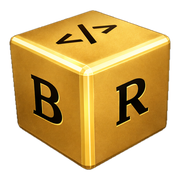
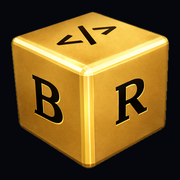
Add files via upload

diff --git a/index.html b/index.html
@@ -11,13 +11,13 @@
 
 <!-- PWA Manifest & Icons -->
 <link rel="manifest" href="/manifest.json">
-<link rel="icon" type="image/png" sizes="192x192" href="/icon-192.png?v=2">
-<link rel="icon" type="image/png" sizes="512x512" href="/icon-512.png?v=2">
-<meta name="theme-color" content="#C9A84C">
+<link rel="icon" type="image/png" sizes="192x192" href="/icon-192.png?v=3">
+<link rel="icon" type="image/png" sizes="512x512" href="/icon-512.png?v=3">
+<meta name="theme-color" content="#05070D">
 
 <!-- iOS Safari (Add to Home Screen) -->
-<link rel="apple-touch-icon" href="/apple-touch-icon.png?v=2">
-<link rel="apple-touch-icon" sizes="180x180" href="/apple-touch-icon.png?v=2">
+<link rel="apple-touch-icon" href="/apple-touch-icon.png?v=3">
+<link rel="apple-touch-icon" sizes="180x180" href="/apple-touch-icon.png?v=3">
 <meta name="apple-mobile-web-app-capable" content="yes">
 <meta name="apple-mobile-web-app-status-bar-style" content="black-translucent">
 <meta name="apple-mobile-web-app-title" content="Benyoriki">
@@ -67,7 +67,7 @@
 }
 </script>
 
-<link rel="icon" type="image/png" href="favicon.png?v=2">
+<link rel="icon" type="image/png" href="favicon.png?v=3">
 <meta name="theme-color" content="#0B0F1A" media="(prefers-color-scheme: dark)">
 <meta name="theme-color" content="#F7F5F0" media="(prefers-color-scheme: light)">
 
@@ -117,7 +117,7 @@
 
 <!-- ══ SPLASH SCREEN — ringan, ±5 detik, tanpa animasi berat ══ -->
 <div id="splash" role="status" aria-label="Memuat Benyoriki">
-  <div class="sp-mark"><img src="favicon.png?v=2" alt="" width="64" height="64"></div>
+  <div class="sp-mark"><img src="favicon.png?v=3" alt="" width="64" height="64"></div>
   <div class="sp-word">@benyo<span>riki</span></div>
   <div class="sp-bar"><div class="sp-fill" id="spFill"></div></div>
 </div>
@@ -130,7 +130,7 @@
 <!-- ══ NAVBAR ══ -->
 <nav class="navbar" id="navbar">
 <a href="#home" class="nav-brand">
-  <img src="favicon.png?v=2" alt="Logo Benyoriki" class="brand-logo">
+  <img src="favicon.png?v=3" alt="Logo Benyoriki" class="brand-logo">
   <span>@benyo<b>riki</b></span>
 </a>
   <ul class="nav-links" id="navLinks">
